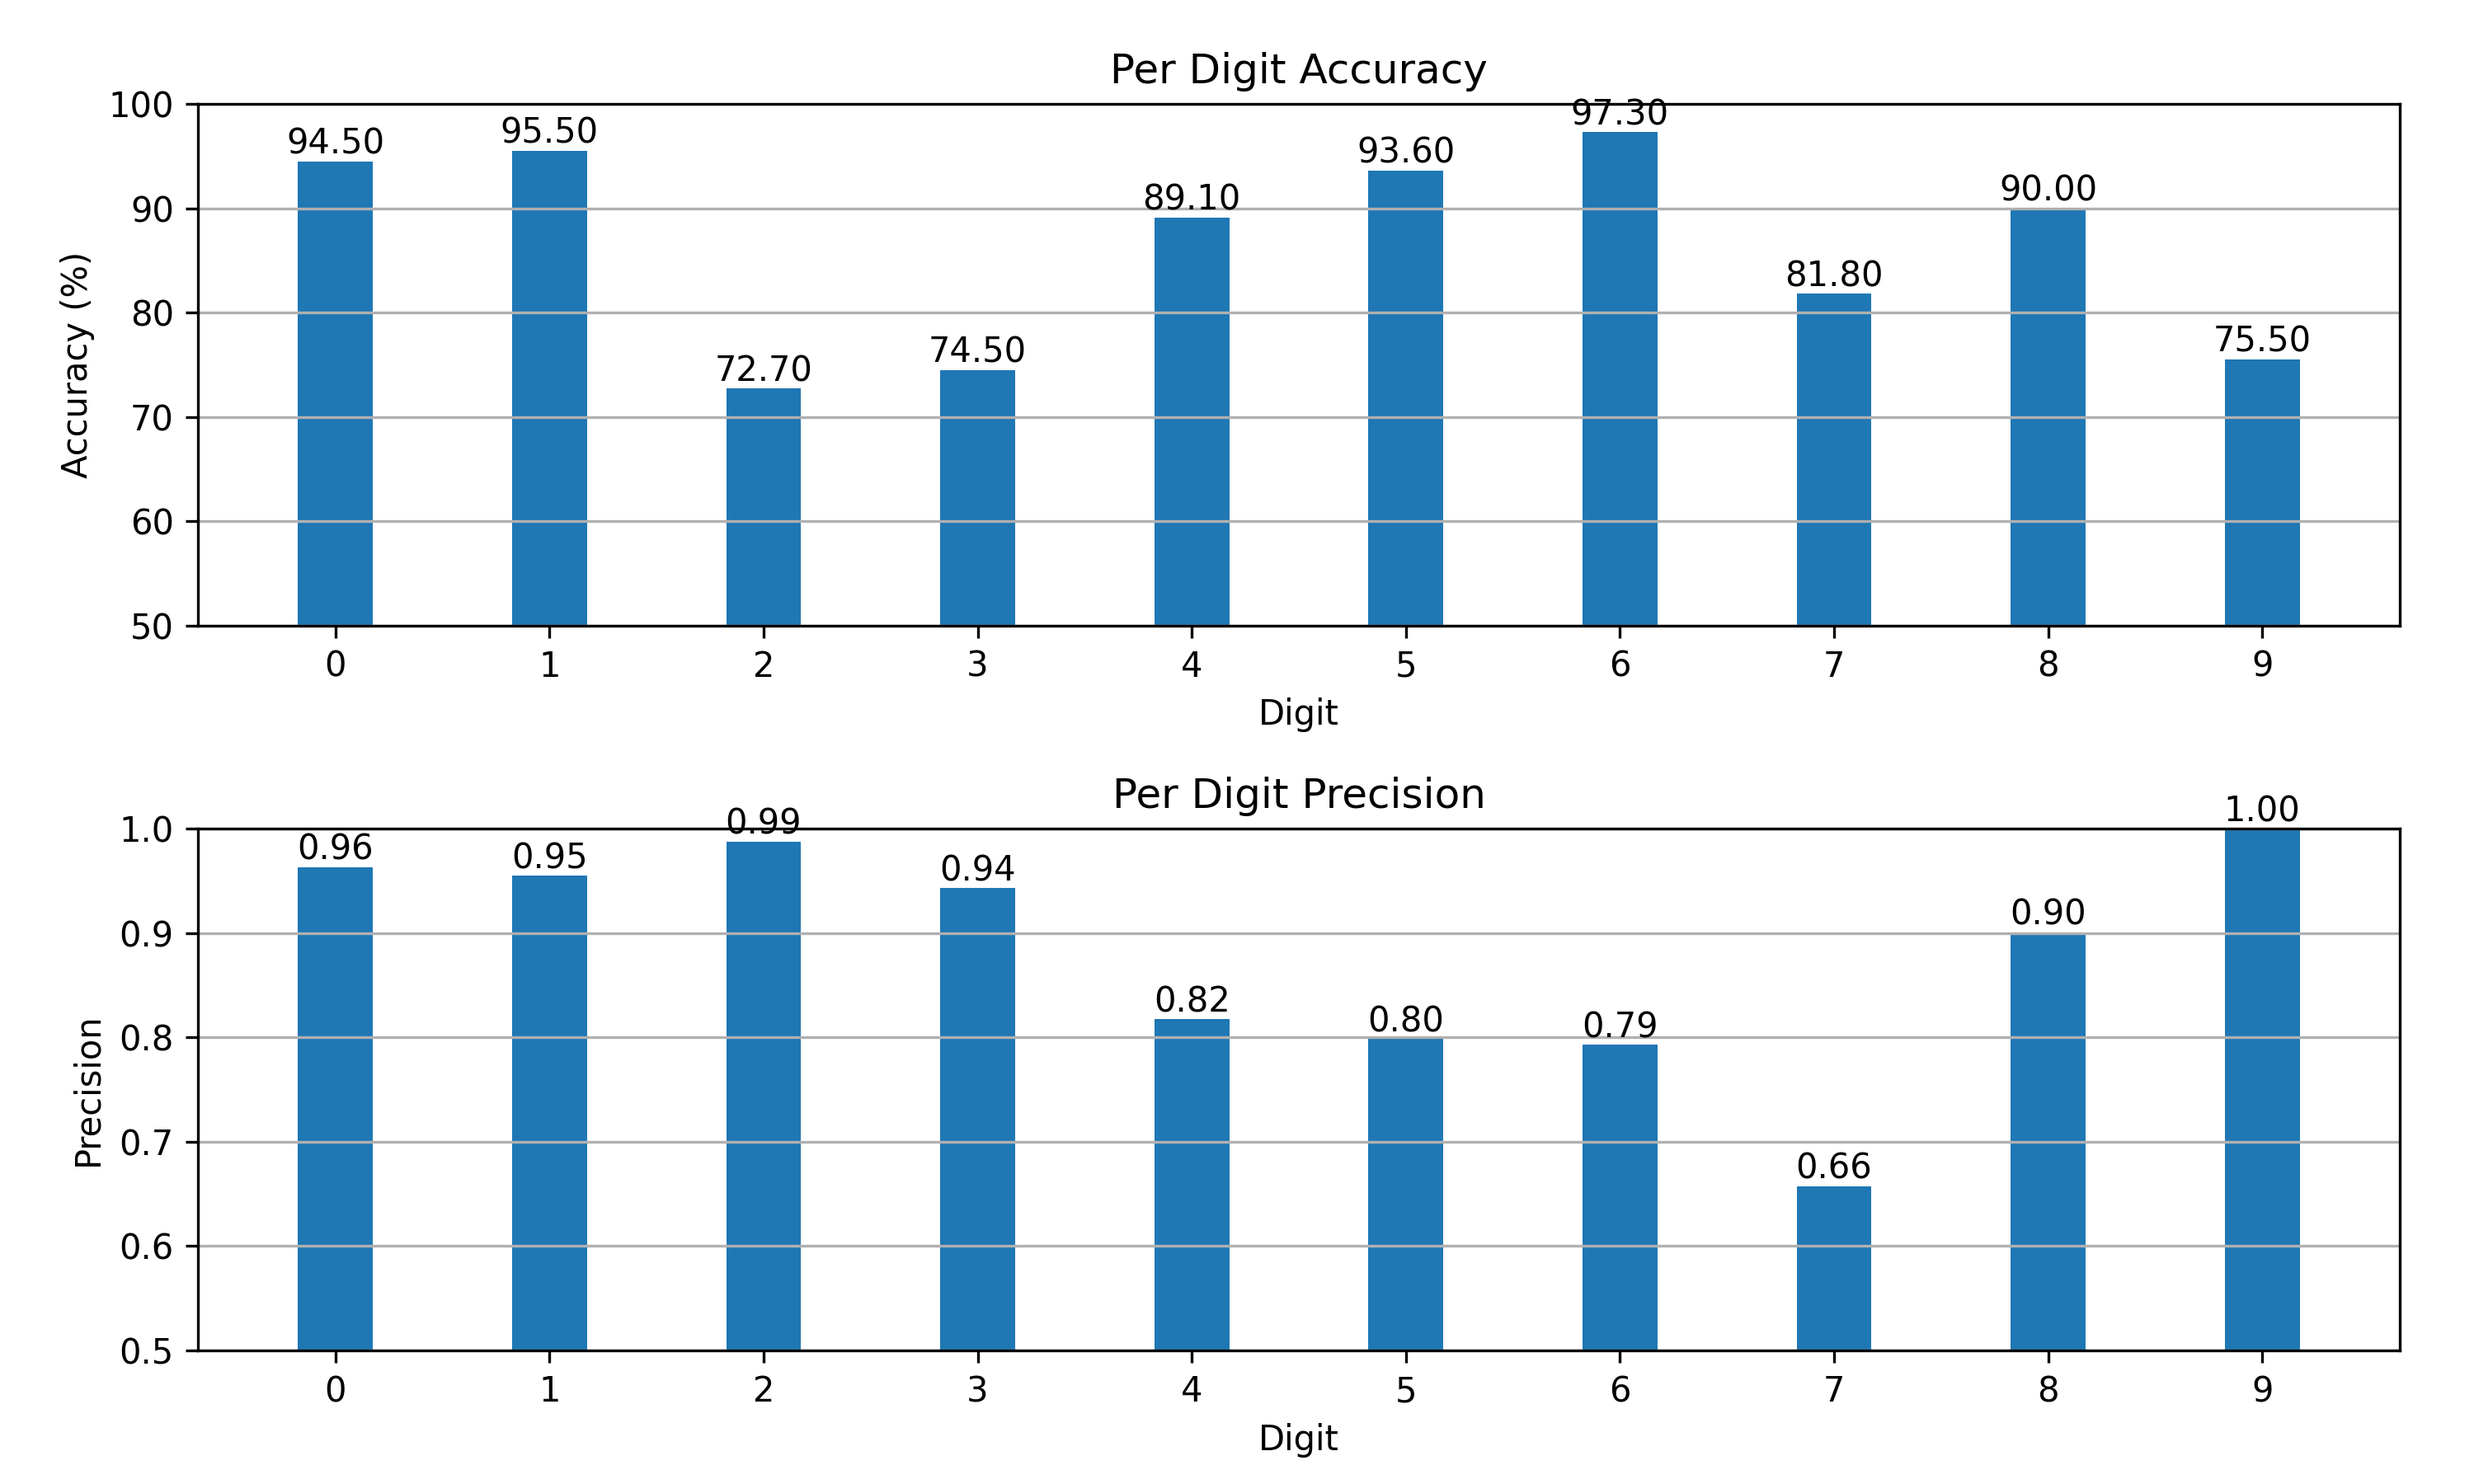
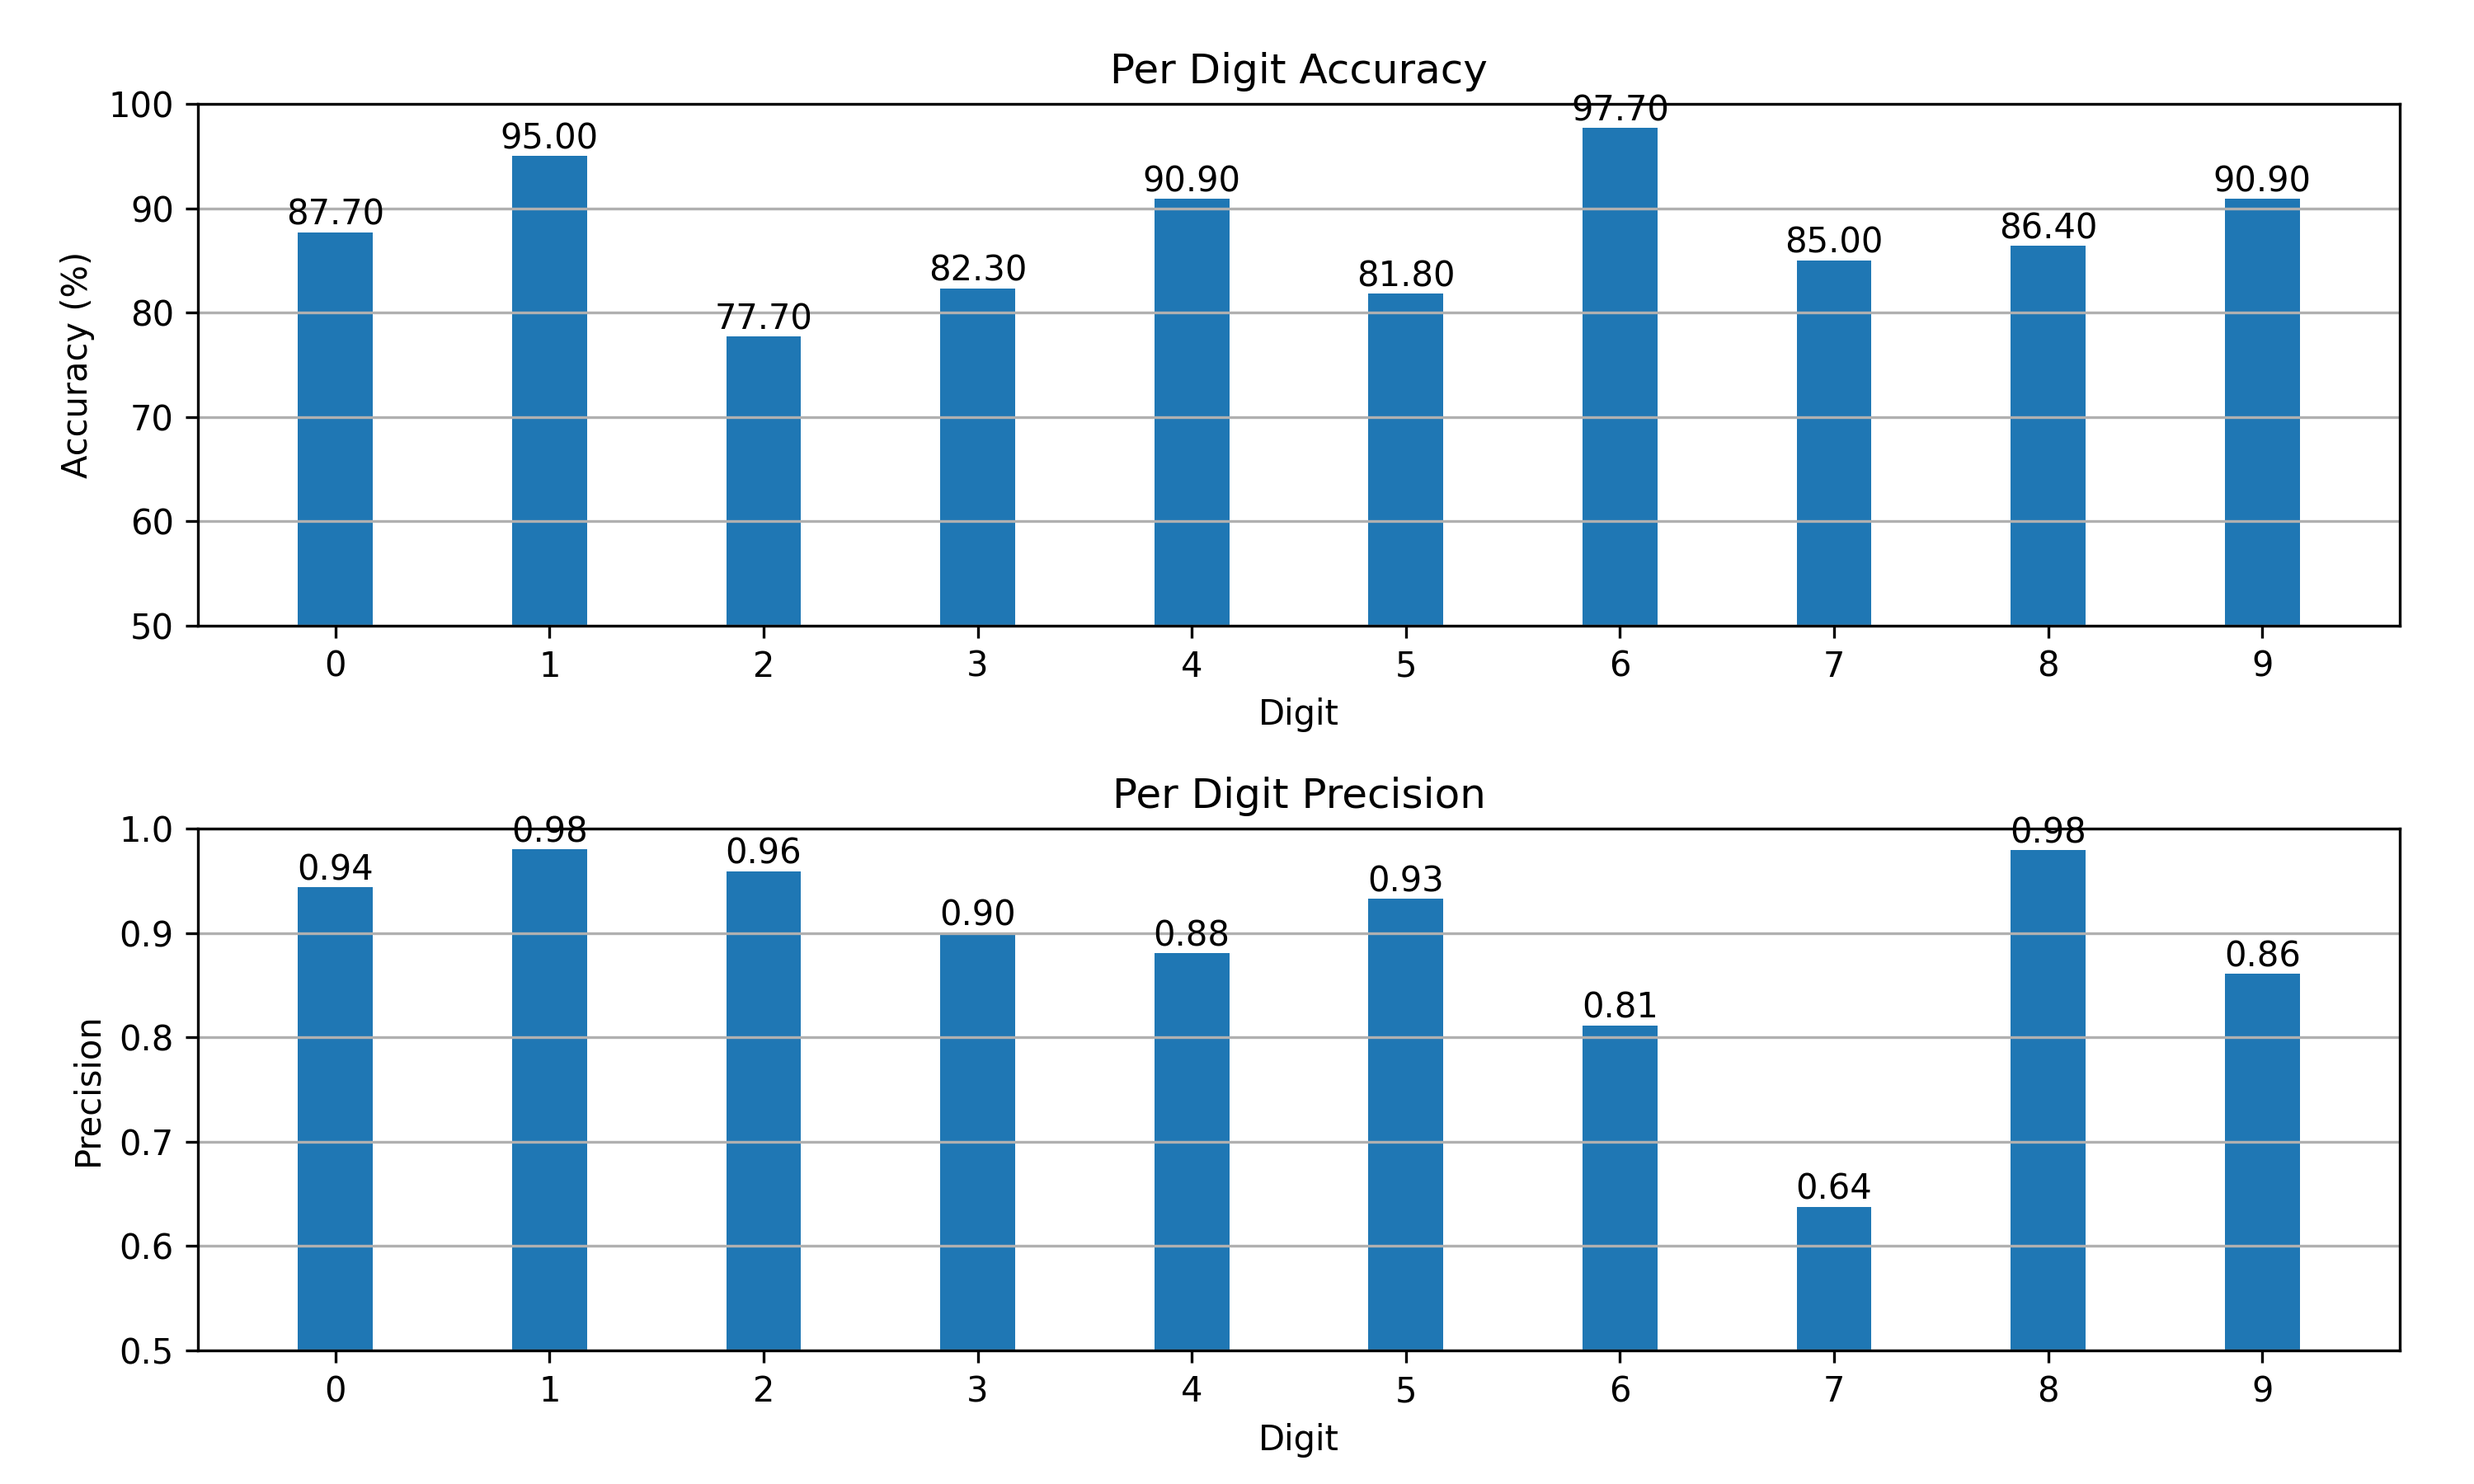
Make various confusion plots

diff --git a/src/analyzer.py b/src/analyzer.py
@@ -21,7 +21,7 @@ class Analyzer:
         self.cov = {"tied": False, "cov_type": "full"}
         self.female_mfccs = [1, 2, 4, 6, 7, 10, 12]
         self.male_mfccs = [3, 4, 6, 7, 8, 10, 11]
-        self.use_kmeans = True
+        self.use_kmeans = False
         self.phoneme_map = {
             0: 4,
             1: 4,
@@ -240,8 +240,8 @@ class Analyzer:
         for digit in range(10):
             f_classification = self.classify_all_utterances(digit, f_gmms, 'F')
             m_classification = self.classify_all_utterances(digit, m_gmms, 'M')
-            # confusion[digit] = (f_classification + m_classification) / 2
-            confusion[digit] = m_classification
+            confusion[digit] = (f_classification + m_classification) / 2
+            # confusion[digit] = m_classification
         return confusion
 
     def filter_test_utterances(self, token, gender=None):

diff --git a/src/confusionplotter.py b/src/confusionplotter.py
@@ -28,7 +28,7 @@ def plot_confusion_matrix(confusion_matrix, title="Confusion Matrix"):
 
     fig.colorbar(im, cax=ax_colorbar)
     plt.tight_layout()
-    fig.savefig("../plots/kmeans_confusion_matrix.png", dpi=300)
+    fig.savefig("../plots/stratified_confusion_matrix.png", dpi=300)
     plt.show()
 
 
@@ -87,7 +87,7 @@ def make_confusion_matrix():
     plot_confusion_bar_graph(accuracy, axes[0], True)
     plot_confusion_bar_graph(precision, axes[1], False)
     plt.subplots_adjust(left=.08, right=.97, top=.93, bottom=.09, hspace=0.39, wspace=.2)
-    fig.savefig("../plots/kmeans_confusion_accuracy_precision.png", dpi=300)
+    fig.savefig("../plots/stratified_confusion_accuracy_precision.png", dpi=300)
     plot_confusion_matrix(confusion)
 
 
